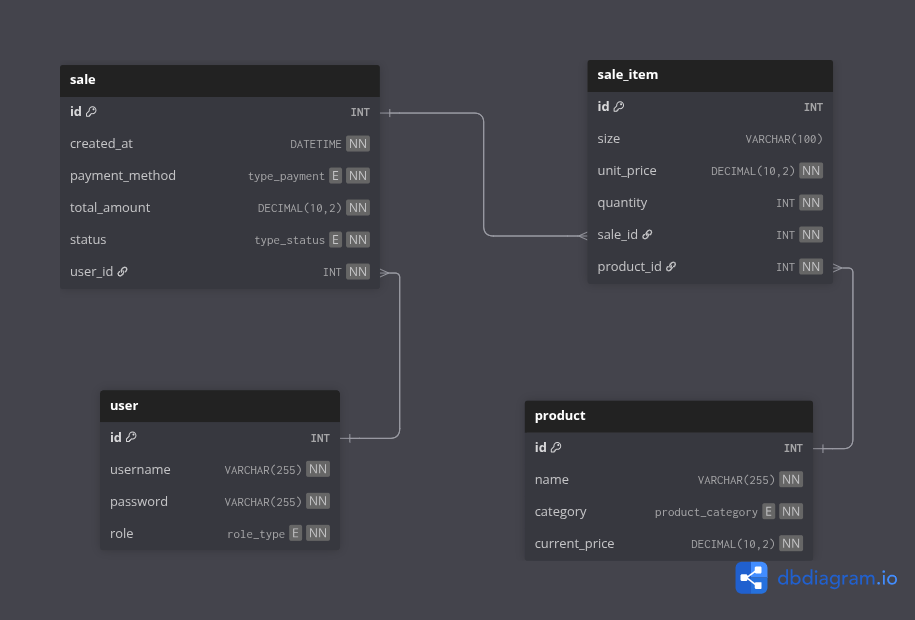
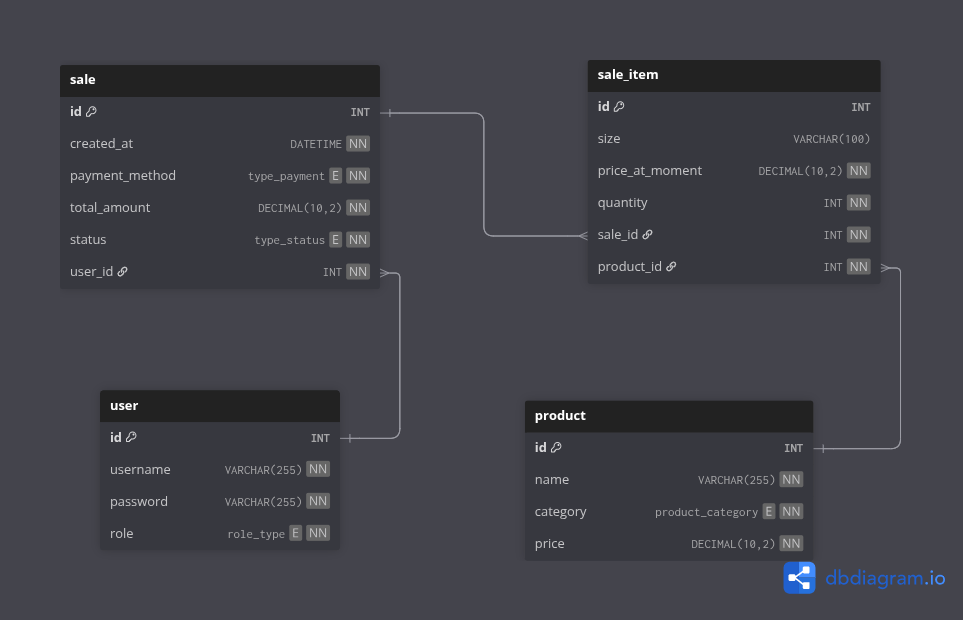
refactor: rename entity fields and enums for clarity

diff --git a/src/main/java/com/dazayamil/tiendabel/model/entity/SaleItem.java b/src/main/java/com/dazayamil/tiendabel/model/entity/SaleItem.java
@@ -12,10 +12,10 @@ public class SaleItem {
     @GeneratedValue(strategy = GenerationType.IDENTITY)
     private long id;
 
-    private String size;
+    private String productSize;
 
-    @Column(name = "unit_price", nullable = false)
-    private BigDecimal unitPrice;
+    @Column(name = "priceAtMoment", nullable = false)
+    private BigDecimal priceAtMoment;
 
     @Column(nullable = false)
     private int quantity;

diff --git a/src/main/java/com/dazayamil/tiendabel/model/entity/Product.java b/src/main/java/com/dazayamil/tiendabel/model/entity/Product.java
@@ -20,6 +20,6 @@ public class Product {
     @Column(nullable = false)
     private Category category;
 
-    @Column(name = "current_price", nullable = false)
-    private BigDecimal currentPrice;
+    @Column(name = "price", nullable = false)
+    private BigDecimal price;
 }

diff --git a/docs/business-rules.md b/docs/business-rules.md
@@ -9,4 +9,4 @@
 - Una venta debe tener al menos un producto.
 - El total se calcula automáticamente.
 - Puede editarse en caso de error de carga.
-- No se gestiona stock en la versión 1.
+- No se gestiona stock en la versió9n 1.
